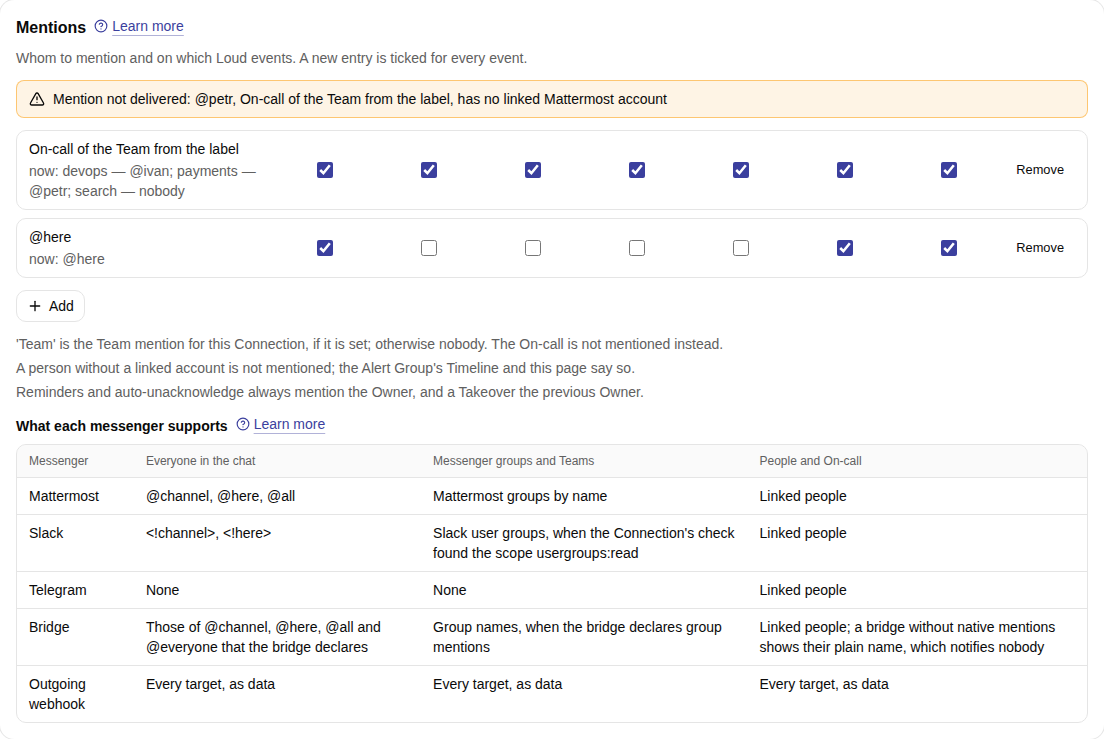
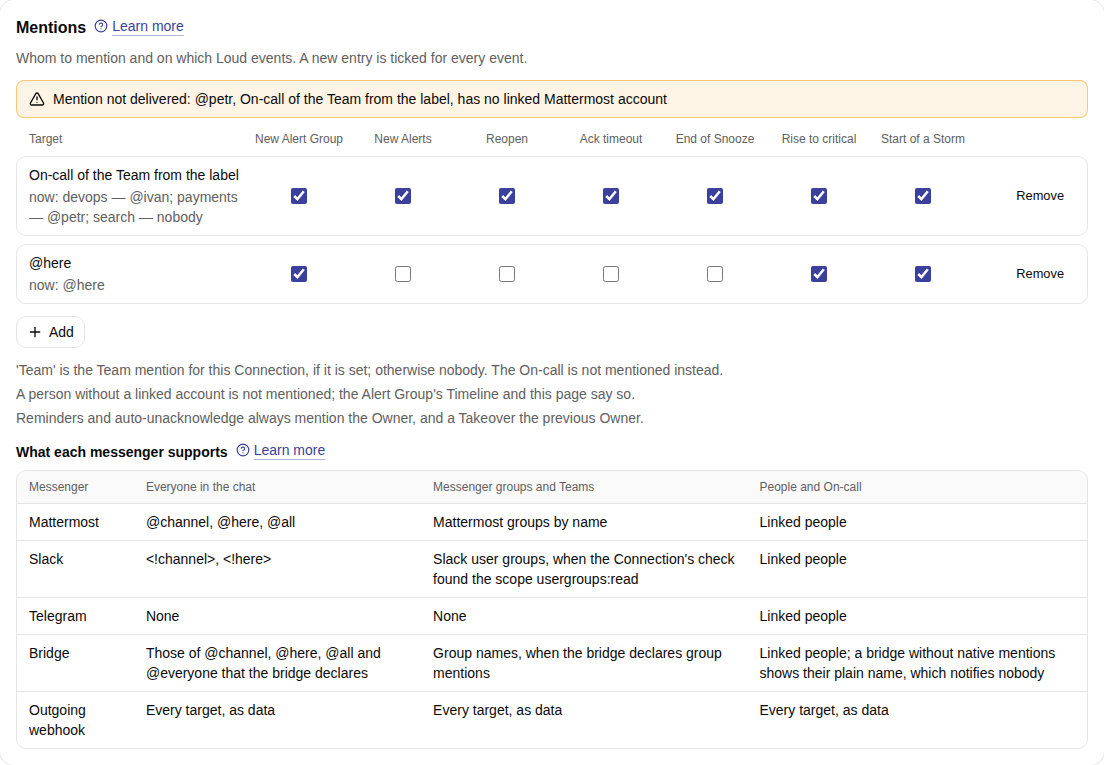
fix(web): name who holds the contact and align the mentions grid header (#609)

diff --git a/web/e2e/destinations.spec.ts b/web/e2e/destinations.spec.ts
@@ -11,7 +11,7 @@
 // the fake server shows exactly, in English and in Russian. No page scrolls sideways at 360 px; no Content Security
 // Policy violation.
 
-import { type Browser, expect, test, type Page } from "@playwright/test";
+import { type Browser, expect, type Locator, test, type Page } from "@playwright/test";
 
 import {
   type Api,
@@ -637,6 +637,12 @@ const MENTION_EVENTS = [
   "storm_started",
 ] as const;
 
+/** The horizontal centre of the element, in page pixels. */
+async function centreOf(target: Locator): Promise<number> {
+  const box = await target.boundingBox();
+  return (box?.x ?? Number.NaN) + (box?.width ?? Number.NaN) / 2;
+}
+
 /** The row of the Mentions grid whose target reads exactly text. */
 function mentionRow(page: Page, text: string) {
   return page
@@ -700,6 +706,32 @@ test("the Mentions grid shows what each entry resolves to now, warns about an un
   await expect(support.getByTestId("mention-support-slack")).toContainText("<!channel>, <!here>");
   await expect(support.getByTestId("mention-support-telegram")).toContainText("Linked people");
   await shot(page, "destination-mentions");
+
+  // The header shares the template of the rows: each event header is centred over its checkbox column, and the
+  // placeholder of the Remove column lies over the Remove buttons, at 1280 px and at the md breakpoint (768 px).
+  const original = page.viewportSize() ?? { width: 1280, height: 800 };
+  for (const width of [1280, 768]) {
+    await page.setViewportSize({ width, height: original.height });
+    const header = section.getByTestId("mention-header");
+    await expect(header).toBeVisible();
+    const cells = header.locator(":scope > span");
+    await expect(cells).toHaveCount(MENTION_EVENTS.length + 2);
+    await expectNoHorizontalScroll(page);
+    for (const row of await section.getByTestId("mention-entry").all()) {
+      for (const [i, event] of MENTION_EVENTS.entries()) {
+        const cell = await centreOf(cells.nth(i + 1));
+        const box = await centreOf(row.getByTestId(`mention-event-${event}`));
+        expect(Math.abs(cell - box), `${event} at ${width} px`).toBeLessThan(1);
+      }
+      const last = await cells.last().boundingBox();
+      const remove = await row.getByRole("button").boundingBox();
+      expect(remove?.x ?? 0).toBeGreaterThanOrEqual((last?.x ?? 0) - 1);
+      expect((remove?.x ?? 0) + (remove?.width ?? 0)).toBeLessThanOrEqual(
+        (last?.x ?? 0) + (last?.width ?? 0) + 1,
+      );
+    }
+  }
+  await page.setViewportSize(original);
 
   // 2. "Add" → @here → a new row ticked for every event; untick all but "New Alert Group" → "Save".
   await page.getByRole("button", { name: "Add", exact: true }).click();

diff --git a/web/e2e/profile.spec.ts b/web/e2e/profile.spec.ts
@@ -272,9 +272,12 @@ test("the contact for calls and SMS: unavailable without a Notification gateway,
     await expect(
       section.getByRole("button", { name: `Remove the contact ${phone}` }),
     ).toBeVisible();
+    const who = (await page.getByTestId("user-menu-name").textContent())?.trim() ?? "";
+    expect(who).not.toBe("");
     await expect(section.getByTestId("gateway-contact-note")).toHaveText(
-      "From a call you can acknowledge an Alert Group only while nobody has it; otherwise the call answers “Already taken by {name}”.",
+      `From a call you can acknowledge an Alert Group only while nobody has it; otherwise the call answers “Already taken by ${who}”.`,
     );
+    await expect(section.getByTestId("gateway-contact-note")).not.toContainText("{name}");
     await expect(section.getByLabel("Phone")).toHaveCount(0);
     await shot(page, "profile-contact-confirmed");
 
@@ -285,8 +288,9 @@ test("the contact for calls and SMS: unavailable without a Notification gateway,
       `${phone} · звонок и SMS · подтверждён`,
     );
     await expect(section.getByTestId("gateway-contact-note")).toHaveText(
-      "Из звонка можно подтвердить группу, только если у неё ещё нет владельца; иначе звонок ответит «уже взял(а) {name}».",
+      `Из звонка можно подтвердить группу, только если у неё ещё нет владельца; иначе звонок ответит «уже взял(а) ${who}».`,
     );
+    await expect(section.getByTestId("gateway-contact-note")).not.toContainText("{name}");
     await expect(section.getByRole("button", { name: `Удалить контакт ${phone}` })).toBeVisible();
     await page.setViewportSize({ width: 360, height: 740 });
     await expectNoHorizontalScroll(page);

diff --git a/web/src/components/mention-entries-editor.tsx b/web/src/components/mention-entries-editor.tsx
@@ -25,8 +25,10 @@ import {
 import { MentionTargetPicker } from "./mention-target-picker";
 import { Button } from "./ui/button";
 
+// The header and the rows share this template, so every header cell sits over its checkbox column; the last column has a
+// fixed width because the header and each row are separate grids and an `auto` track would size to its own content.
 const GRID =
-  "md:grid md:grid-cols-[minmax(11rem,1fr)_repeat(7,minmax(4.5rem,6rem))_auto] md:items-center md:gap-x-2";
+  "md:grid md:grid-cols-[minmax(11rem,1fr)_repeat(7,minmax(4.5rem,6rem))_6rem] md:items-center md:gap-x-2";
 
 export interface MentionEntriesEditorProps {
   /** The base of the ids, unique on the page. */
@@ -84,7 +86,7 @@ export function MentionEntriesEditor({
       ) : (
         <div className="flex min-w-0 flex-col gap-2">
           <div
-            className={`hidden text-xs text-muted-foreground ${GRID}`}
+            className={`hidden border border-transparent px-3 text-xs text-muted-foreground ${GRID}`}
             aria-hidden="true"
             data-testid="mention-header"
           >
@@ -160,7 +162,7 @@ export function MentionEntriesEditor({
                       </label>
                     ))}
                   </div>
-                  <div className="flex">
+                  <div className="flex md:justify-end">
                     <Button
                       type="button"
                       variant="ghost"

diff --git a/web/src/components/gateway-contact-section.test.tsx b/web/src/components/gateway-contact-section.test.tsx
@@ -228,7 +228,7 @@ describe("with a Notification gateway", () => {
     await expect
       .element(page.getByTestId("gateway-contact-note"))
       .toHaveTextContent(
-        "From a call you can acknowledge an Alert Group only while nobody has it; otherwise the call answers “Already taken by {name}”.",
+        "From a call you can acknowledge an Alert Group only while nobody has it; otherwise the call answers “Already taken by petr”.",
       );
     expect(page.getByLabelText("Phone").elements()).toHaveLength(0);
   });
@@ -368,7 +368,7 @@ describe("with a Notification gateway", () => {
     await expect
       .element(page.getByTestId("gateway-contact-note"))
       .toHaveTextContent(
-        "Из звонка можно подтвердить группу, только если у неё ещё нет владельца; иначе звонок ответит «уже взял(а) {name}».",
+        "Из звонка можно подтвердить группу, только если у неё ещё нет владельца; иначе звонок ответит «уже взял(а) petr».",
       );
     await expect.element(page.getByRole("button", { name: /^Удалить/ })).toBeVisible();
   });

diff --git a/web/src/components/gateway-contact-section.tsx b/web/src/components/gateway-contact-section.tsx
@@ -24,7 +24,7 @@ import {
   useListMyGatewayContacts,
 } from "../api/gen/endpoints/notification-gateways/notification-gateways";
 import type { EntityRef, GatewayContact } from "../api/gen/model";
-import { fieldErrorText, isApiError, problemText } from "../lib/api";
+import { fieldErrorText, isApiError, problemText, useSession } from "../lib/api";
 import { useCan } from "./app-shell";
 import { DocsLink } from "./docs-link";
 import { GatewayUnavailable } from "./gateway-unavailable";
@@ -451,6 +451,7 @@ function GatewayBlock({
 export function GatewayContactSection() {
   const { t } = useTranslation();
   const canRead = useCan("connections:read");
+  const session = useSession();
   const contacts = useListMyGatewayContacts();
   const gateways = useListConnections(
     { role: "gateway", limit: 500 },
@@ -507,7 +508,7 @@ export function GatewayContactSection() {
             ))}
             {items.some((c) => c.confirmed) && (
               <p className="text-sm text-muted-foreground" data-testid="gateway-contact-note">
-                {t("gatewayContact.note", { name: "{name}" })}
+                {t("gatewayContact.note", { name: session?.user.name ?? "" })}
               </p>
             )}
           </>

diff --git a/web/e2e/screenshots/mentions.spec.ts b/web/e2e/screenshots/mentions.spec.ts
@@ -120,13 +120,8 @@ test("shows the Mentions of a Destination, the targets of Telegram and the Team 
   await expect(section.getByTestId("mention-warning")).toHaveText(
     "Mention not delivered: @petr, On-call of the Team from the label, has no linked Mattermost account",
   );
-  // The header of the columns is hidden for the shot: it sits a few pixels off the boxes of the rows, and a reader would
-  // read the boxes under the wrong events. The page names the events in the order of the boxes.
-  await capture(page, MENTIONS, "01-mentions-grid", {
-    locator: section,
-    padding: 16,
-    hide: section.getByTestId("mention-header"),
-  });
+  await expect(section.getByTestId("mention-header")).toBeVisible();
+  await capture(page, MENTIONS, "01-mentions-grid", { locator: section, padding: 16 });
 
   // The Telegram Destination: the list that "Add" opens, with what Telegram cannot mention greyed and its reason.
   await page.goto(`/destinations/${telegramDestination}`);
